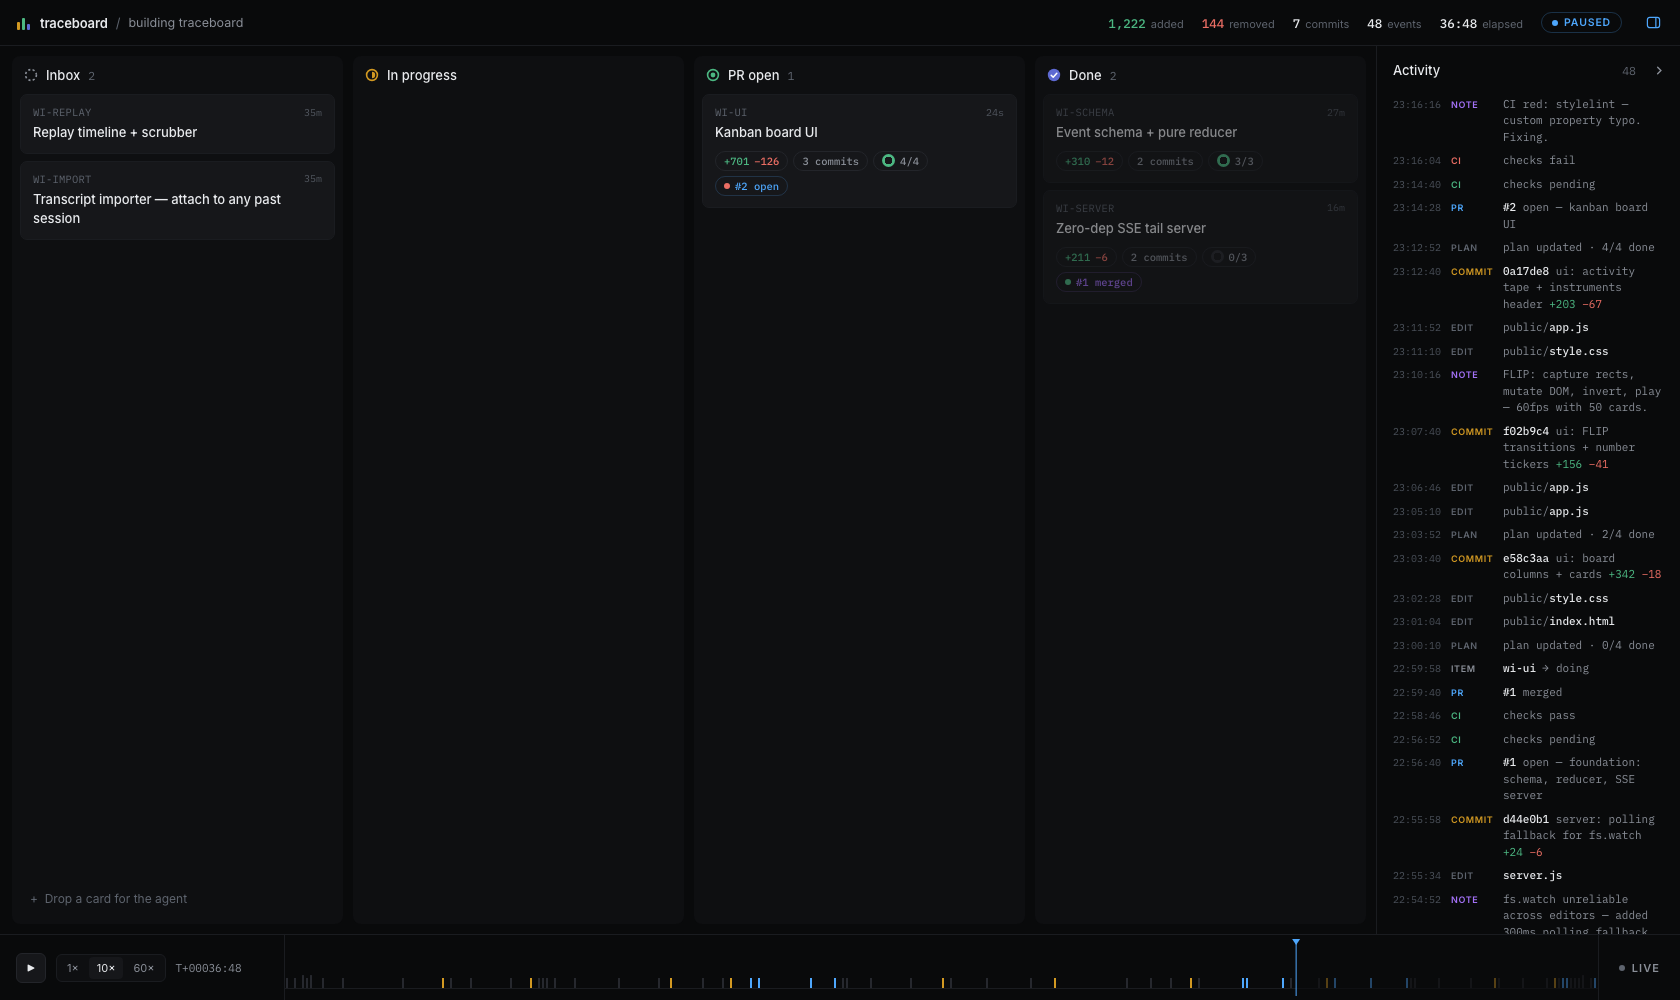
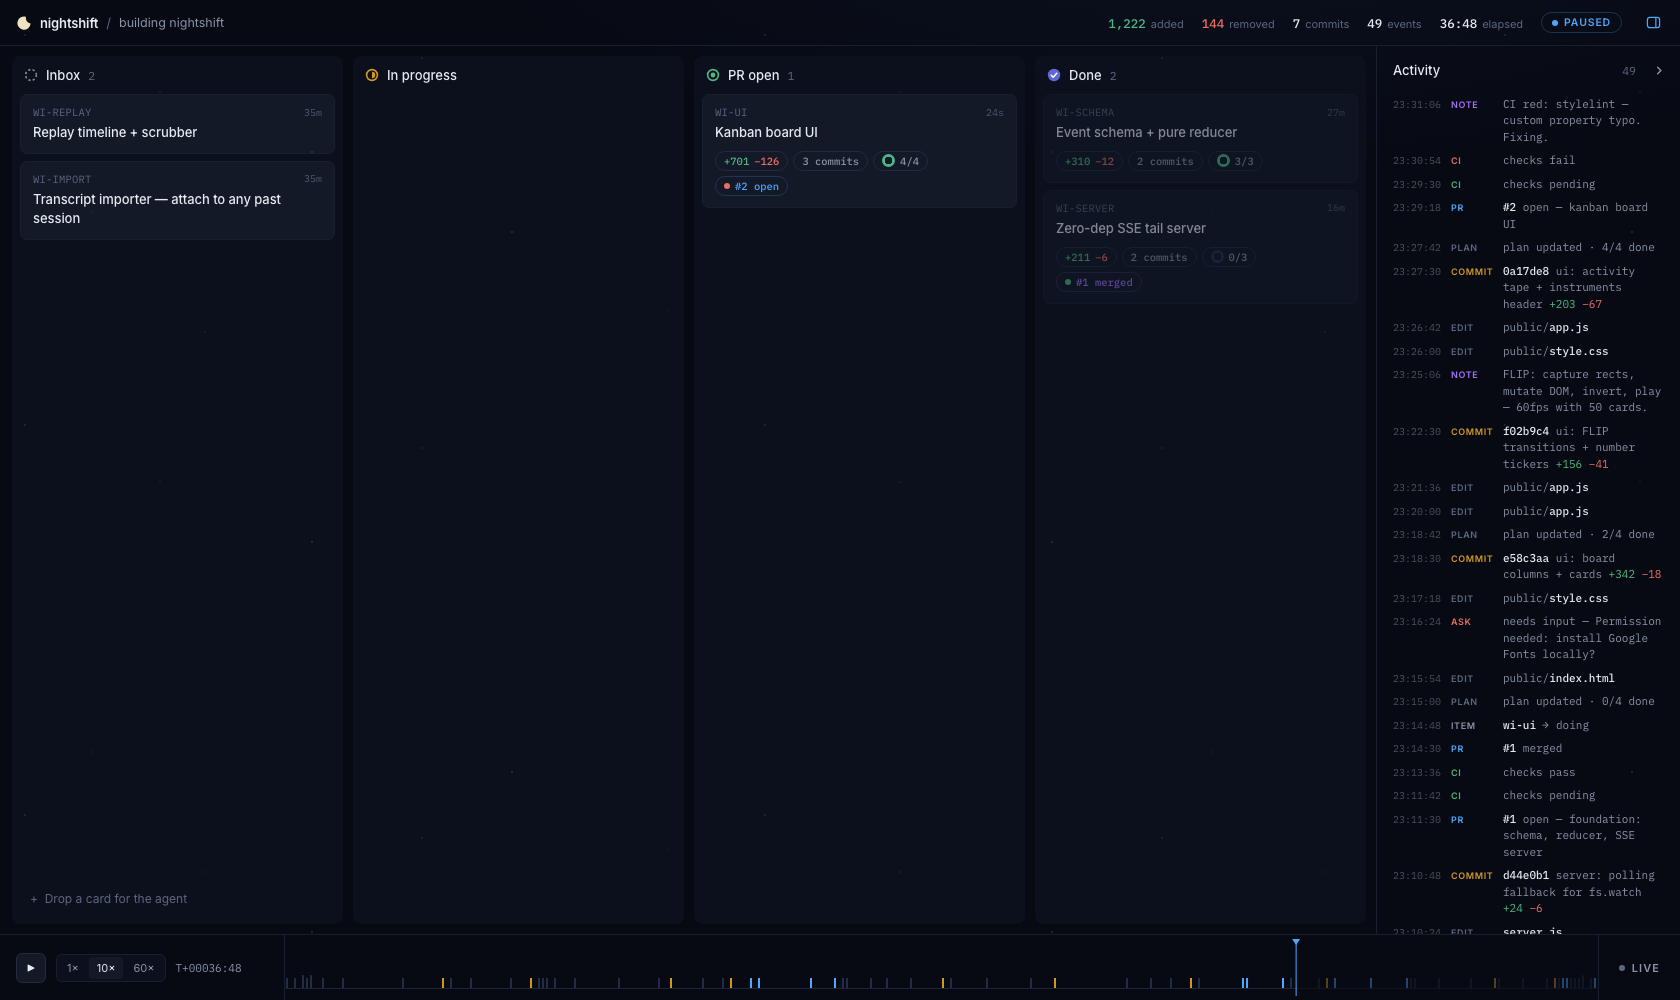
ui: night-sky theme — blue-cast palette, sparse starfield

Changed region(s): [[0.8357, 0.62, 0.9905, 0.93], [0.0, 0.0, 0.1548, 0.031]]

diff --git a/public/style.css b/public/style.css
@@ -4,15 +4,15 @@
    Motion = data changing, never decoration. */
 
 :root {
-  --bg: #090a0b;
-  --lane: #0e0f11;
-  --card: #16171a;
-  --card-hover: #1a1b1f;
-  --line: #23252a;
-  --line-soft: #1a1c20;
-  --ink: #e8eaed;
-  --dim: #8a8f98;
-  --faint: #5e646e;
+  --bg: #070a13;
+  --lane: #0c101c;
+  --card: #131927;
+  --card-hover: #171e30;
+  --line: #222b42;
+  --line-soft: #18202f;
+  --ink: #e6eaf2;
+  --dim: #8b93a8;
+  --faint: #5d6781;
   --yellow: #d29922;
   --green: #4cb782;
   --red: #eb6e64;
@@ -31,11 +31,33 @@ body {
   font-family: var(--sans);
   font-size: 13px;
   color: var(--ink);
-  background: var(--bg);
+  background:
+    radial-gradient(1100px 420px at 72% -12%, rgba(20, 29, 56, .35) 0%, transparent 70%),
+    var(--bg);
   display: flex;
   flex-direction: column;
   overflow: hidden;
   -webkit-font-smoothing: antialiased;
+}
+
+/* a sparse starfield behind the panels — atmosphere, not decoration */
+body::before {
+  content: '';
+  position: fixed;
+  inset: 0;
+  pointer-events: none;
+  background-image:
+    radial-gradient(1px 1px at 25px 35px, rgba(214, 228, 255, .32), transparent),
+    radial-gradient(1px 1px at 160px 92px, rgba(214, 228, 255, .18), transparent),
+    radial-gradient(1.3px 1.3px at 312px 152px, rgba(240, 226, 192, .26), transparent),
+    radial-gradient(1px 1px at 422px 58px, rgba(214, 228, 255, .22), transparent),
+    radial-gradient(1px 1px at 92px 212px, rgba(214, 228, 255, .15), transparent),
+    radial-gradient(1.2px 1.2px at 512px 232px, rgba(214, 228, 255, .28), transparent),
+    radial-gradient(1px 1px at 668px 310px, rgba(214, 228, 255, .12), transparent),
+    radial-gradient(1px 1px at 205px 332px, rgba(240, 226, 192, .16), transparent);
+  background-size: 740px 390px, 740px 390px, 740px 390px, 740px 390px,
+                   1120px 540px, 1120px 540px, 1120px 540px, 1120px 540px;
+  background-repeat: repeat;
 }
 
 button { font-family: inherit; }
@@ -309,13 +331,13 @@ body.tape-collapsed .tape { border-left: none; }
   flex: none;
   background:
     radial-gradient(closest-side, var(--card) 56%, transparent 0),
-    conic-gradient(var(--ring-c, var(--yellow)) var(--p, 0%), #2a2c31 0);
+    conic-gradient(var(--ring-c, var(--yellow)) var(--p, 0%), #283150 0);
 }
 
 .card:hover .pill.progress .ring {
   background:
     radial-gradient(closest-side, var(--card-hover) 56%, transparent 0),
-    conic-gradient(var(--ring-c, var(--yellow)) var(--p, 0%), #2a2c31 0);
+    conic-gradient(var(--ring-c, var(--yellow)) var(--p, 0%), #283150 0);
 }
 
 .pill.pr { color: var(--blue); border-color: #4ea7fc33; }

diff --git a/public/app.js b/public/app.js
@@ -218,18 +218,18 @@ function drawTimeline() {
     const b = buckets[i];
     if (!b) continue;
     const h = Math.min(base - 8, 3 + Math.sqrt(b.n) * 7);
-    ctx.fillStyle = b.commit ? '#d29922' : b.pr ? '#4ea7fc' : '#26282e';
+    ctx.fillStyle = b.commit ? '#d29922' : b.pr ? '#4ea7fc' : '#232c47';
     ctx.fillRect(i * BW + 1, base - h, BW - 2, h);
   }
 
   // baseline
-  ctx.fillStyle = '#1a1c20';
+  ctx.fillStyle = '#1b2338';
   ctx.fillRect(0, base, W, 1);
 
   // unplayed tape dimmed while in replay
   const px = x(Math.min(vtNow(), t1));
   if (!live) {
-    ctx.fillStyle = 'rgba(9,10,11,.62)';
+    ctx.fillStyle = 'rgba(7,10,19,.62)';
     ctx.fillRect(px, 0, W - px, H);
   }
 